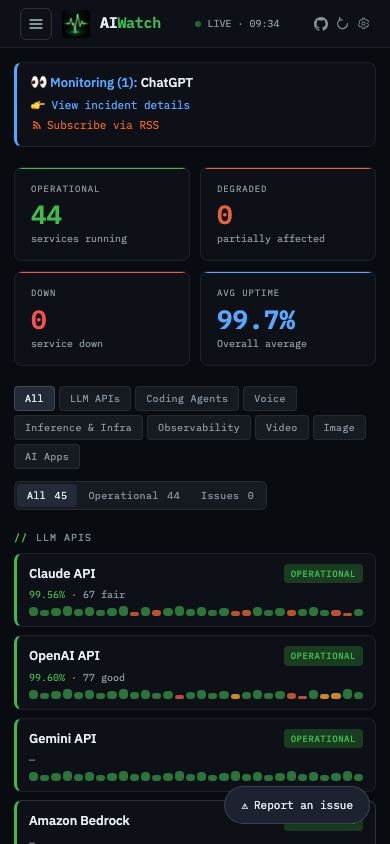
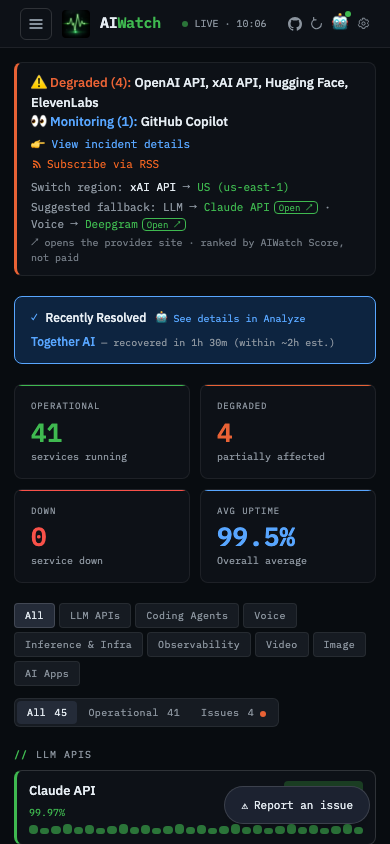
fix(is-down,docs): retarget uptime-N/A E2E test + recapture screenshots from mock data
- tests/is-down.spec.js: the "hides Uptime: N/A" test targeted
  /is-xai-down, which #1165 repurposed into the xAI/Grok/Cursor family
  GROUP page (a different template with no "Last checked" meta line) —
  retarget to /is-xai-api-down, xai's own individual page under its new
  slug. Caught by CI (Edge E2E against the PR's Vercel preview).

- docs/screenshot.png + screenshot-mobile.png: the first regen pass used
  a synthetic all-operational KV seed for local verification, which
  produced a screenshot showing nothing but green badges — a regression
  from the previous capture (taken via the frontend's built-in
  MOCK_SERVICES fallback, which deliberately curates a Degraded(4) +
  fallback-suggestion + Recently-Resolved scene to actually demonstrate
  the product). Recaptured the same way: local worker stopped so the
  fetch fails and usePolling falls back to MOCK_SERVICES.

- src/hooks/usePolling.js: MOCK_SERVICES' `xai` entry still read
  name: 'xAI (Grok)' from before the #1165 rename — corrected to
  'xAI API' so the recaptured screenshots aren't stale themselves.

diff --git a/tests/is-down.spec.js b/tests/is-down.spec.js
@@ -288,7 +288,9 @@ test.describe('Is X Down? SSR pages', () => {
     // than show "Uptime: N/A" (regression: previously hardcoded with N/A literal).
     // #654 — the "(30d)" window qualifier was dropped (the source window varies: official pages
     // report 30/60/90d, estimate is 90d), so the label is now a neutral "Uptime:".
-    await page.goto('/is-xai-down', { waitUntil: 'domcontentloaded' })
+    // #1165 — /is-xai-down is now the xAI/Grok/Cursor FAMILY group page (a different template with
+    // no "Last checked" meta line); xai's own individual page moved to /is-xai-api-down.
+    await page.goto('/is-xai-api-down', { waitUntil: 'domcontentloaded' })
     const meta = page.locator('p.meta.mono', { hasText: 'Last checked' })
     await expect(meta).toBeVisible()
     const text = (await meta.textContent()) || ''

diff --git a/src/hooks/usePolling.js b/src/hooks/usePolling.js
@@ -263,7 +263,7 @@ export const MOCK_SERVICES = [
     ],
   },
   {
-    id: 'xai', category: 'api', name: 'xAI (Grok)', provider: 'xAI', status: 'degraded',
+    id: 'xai', category: 'api', name: 'xAI API', provider: 'xAI', status: 'degraded',
     latency: 203, uptime30d: 99.75,
     history30d: hist([24]),
     history3m: [{ month: '2026-01', uptime: 99.82 }, { month: '2026-02', uptime: 99.79 }, { month: '2026-03', uptime: 99.75 }],
